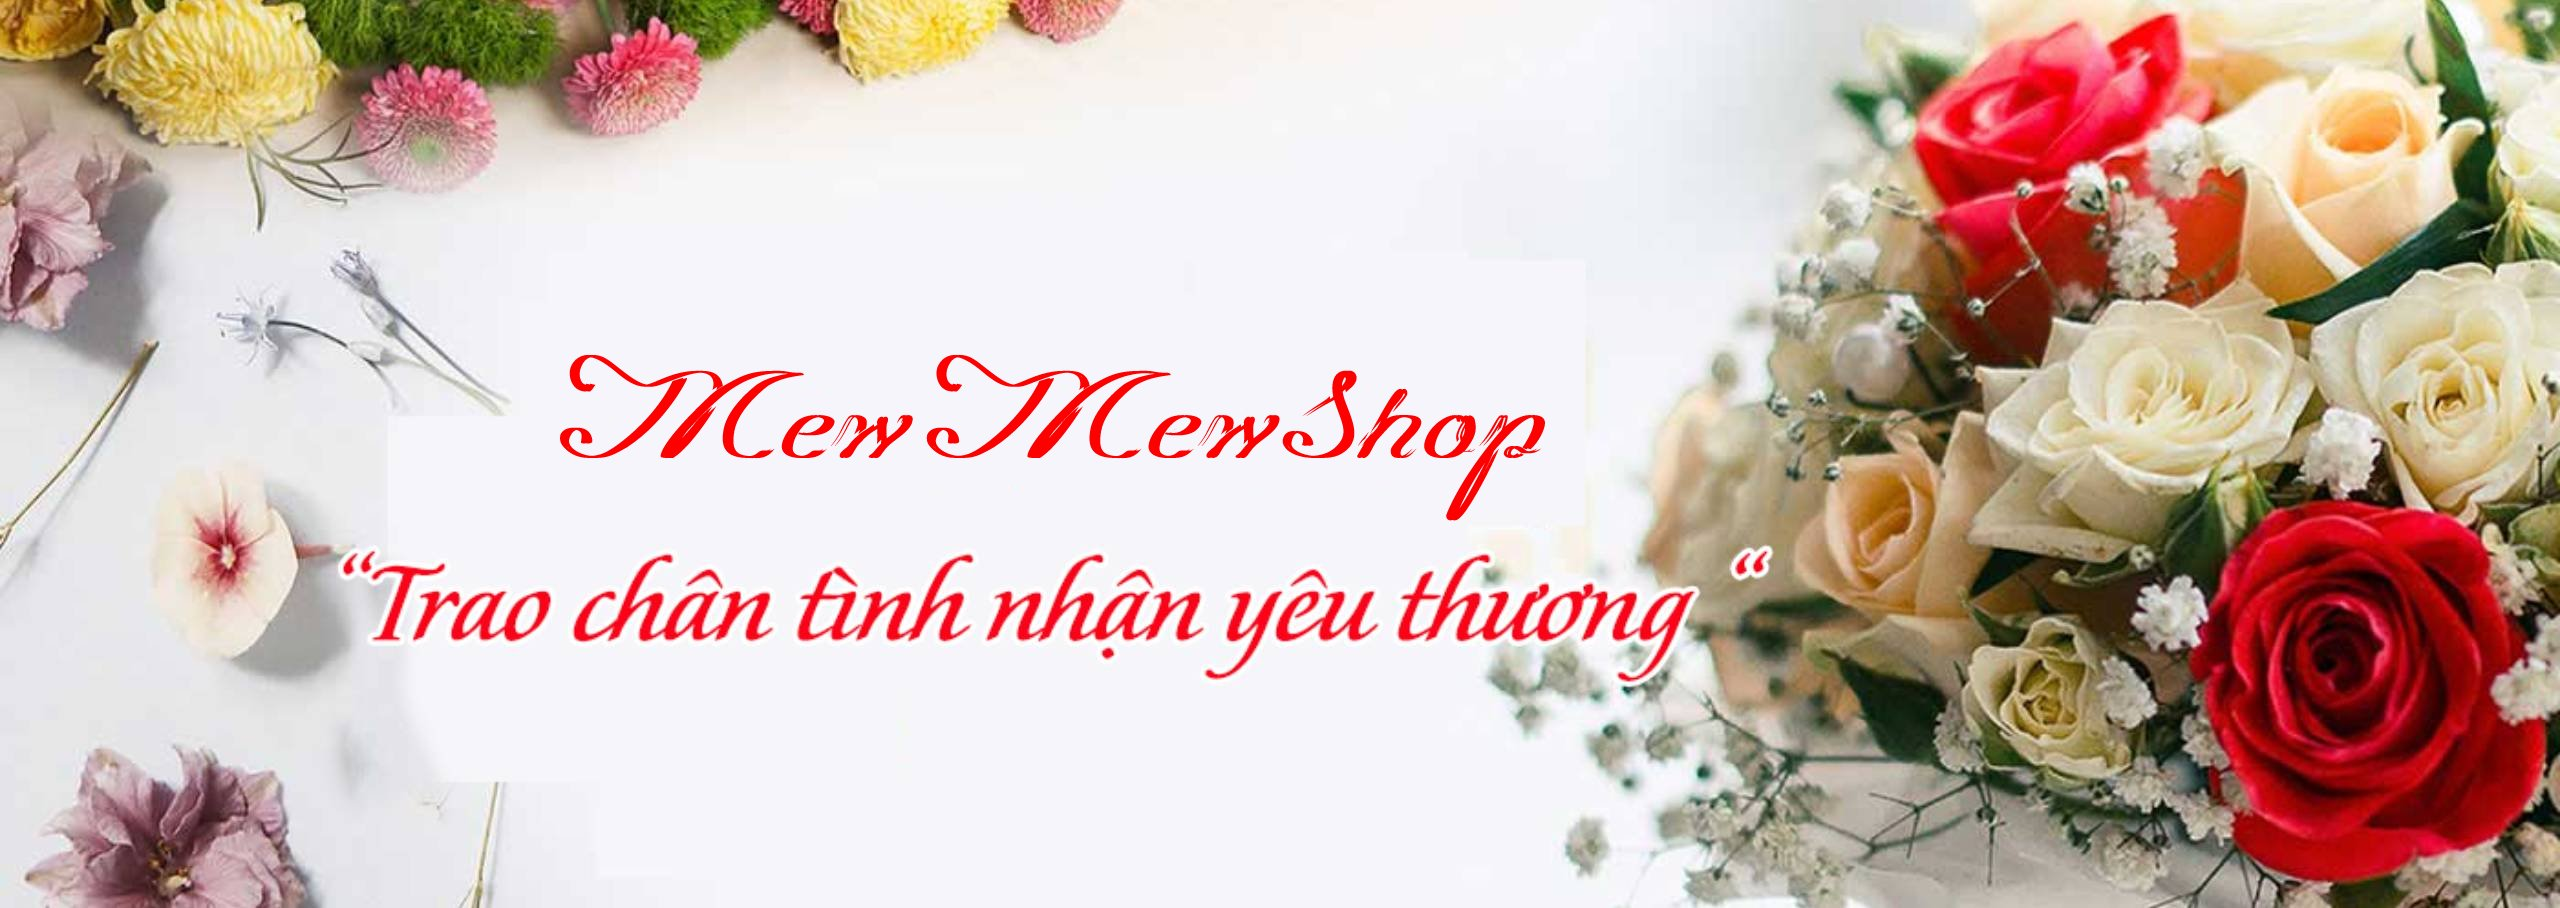
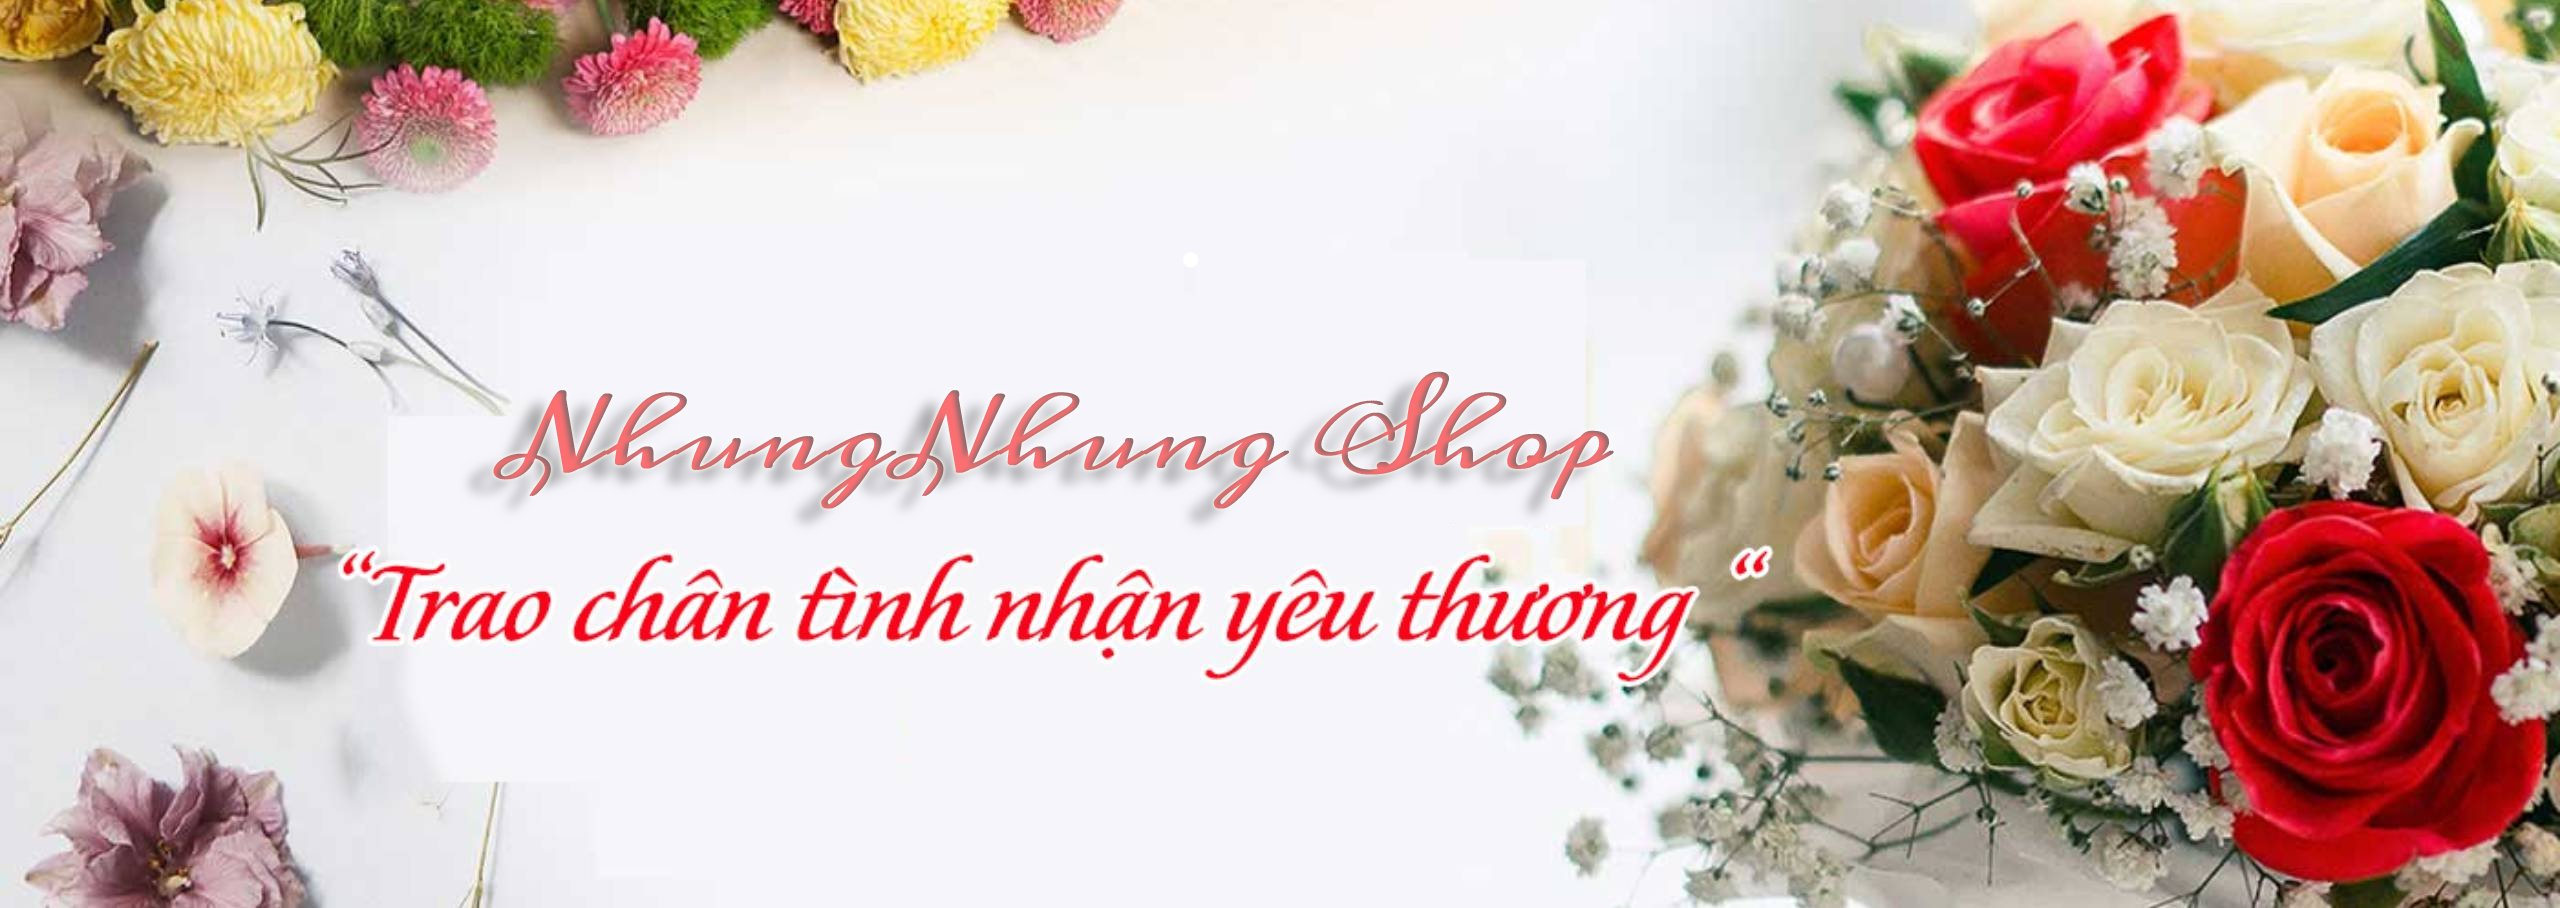
update

Changed region(s): [[0.1875, 0.37, 0.625, 0.5859]]

diff --git a/src/component/Pagination/Pagination.jsx b/src/component/Pagination/Pagination.jsx
@@ -7,37 +7,21 @@ Pagination.propTypes = {
   onPageChange: PropTypes.func,
 };
 function Pagination(props) {
-  const { total, pagination, onPageChange ,executeScroll} = props;
+  const { total, pagination, onPageChange, executeScroll } = props;
   const { limit, page } = pagination;
-  const [filters, setFilters] = useState({
-    limit: limit,
-    page: page,
-  });
-  console.log(filters);
 
-  useEffect(() => {
-    async function fetchMyAPI() {
-      await onPageChange(filters);
-    }
-    
-    fetchMyAPI(executeScroll)
-  }, [filters])
-
- 
-  const handlePageChange = (newPage) => {
-    setFilters(previousState => {
-      return { ...previousState, page: newPage }
-    });
-    console.log(filters);
+  const handlePageChange = async (newPage) => {
+    await onPageChange({ ...pagination, page: newPage });
+    console.log(pagination);
   }
 
   return (
     <div className="d-flex justify-content-end m-3">
-      <button className={`${total <=0 || filters.page <=1 ? " button m-1 h-5 disabled" : "button m-1 h-5"}`}> <span onClick={() => handlePageChange(filters.page - 1)}> Previous </span></button>
-      <button className="button m-1"><span>{filters.page}</span></button>
+      <button className={`${total <= 0 || pagination.page <= 1 ? " button m-1 h-5 disabled" : "button m-1 h-5"}`}> <span onClick={() => handlePageChange(pagination.page - 1)}> Previous </span></button>
+      <button className="button m-1"><span>{pagination.page}</span></button>
       <button className="button m-1"><span>/</span></button>
       <button className="button m-1"><span>{total}</span></button>
-      <button className={`${filters.page >= total ? " button m-1 disabled" : "button m-1"}`}><span onClick={() => handlePageChange(filters.page + 1)}> Next </span></button>
+      <button className={`${pagination.page >= total ? " button m-1 disabled" : "button m-1"}`}><span onClick={() => handlePageChange(pagination.page + 1)}> Next </span></button>
     </div>
   )
 }

diff --git a/src/component/Product/ListProducts.jsx b/src/component/Product/ListProducts.jsx
@@ -14,7 +14,7 @@ export default function ListProducts() {
         limit: 12,
         page: 1,
     });
-
+    const isMounted = useRef(false);
     const products = useSelector((state) => state.product.products)
     const myRef = useRef(null)
     const executeScroll = () => myRef.current.scrollIntoView()
@@ -40,7 +40,14 @@ export default function ListProducts() {
     useEffect(() => {
         (async () => {
             try {
-                await fetchAllProducts(true)
+                console.log(isMounted.current);
+                if (isMounted.current) {
+                    await fetchAllProducts(true)
+                } else {
+                    isMounted.current = true;
+                    await fetchAllProducts(false)
+                }
+
                 console.log("filters limit:" + filters.limit + " , page : " + filters.page);
                 console.log("call api");
             } catch (error) {

diff --git a/public/index.html b/public/index.html
@@ -2,7 +2,7 @@
 <html lang="en">
   <head>
     <meta charset="utf-8" />
-    <link rel="icon" href="%PUBLIC_URL%/favicon.ico" />
+    <link rel="icon" href="%PUBLIC_URL%/hoa.gif" />
     <meta name="viewport" content="width=device-width, initial-scale=1" />
     <meta name="theme-color" content="#000000" />
     <meta
@@ -24,7 +24,7 @@
       work correctly both with client-side routing and a non-root public URL.
       Learn how to configure a non-root public URL by running `npm run build`.
     -->
-    <title>MewMew Shop</title>
+    <title>NhungNhung Shop</title>
   </head>
   <body>
     <noscript>You need to enable JavaScript to run this app.</noscript>

diff --git a/src/component/Product/CreateProduct.jsx b/src/component/Product/CreateProduct.jsx
@@ -154,7 +154,7 @@ export default function CreateProduct(props) {
                 required: "Hình ảnh sản phẩm không được bỏ trống !"
               })} />
               <ErrorMessage errors={errors} name="image" render={({ message }) => <p style={{ color: 'red' }}>{message}</p>} />
-              {imgData && <div><img src={imgData} className="d-block w-100 pt-5" alt="..." /></div>}
+              {imgData && <div className="style-image"><img src={imgData} className="d-block w-100 pt-5 h-100" alt="..." /></div>}
             </div>
             <hr />
             <div className="text-center">

diff --git a/src/component/Product/Product.css b/src/component/Product/Product.css
@@ -111,3 +111,8 @@
         height: 100px;
     }
 }
+
+.style-image {
+    width: 270px;
+    margin: 0 auto;
+}
